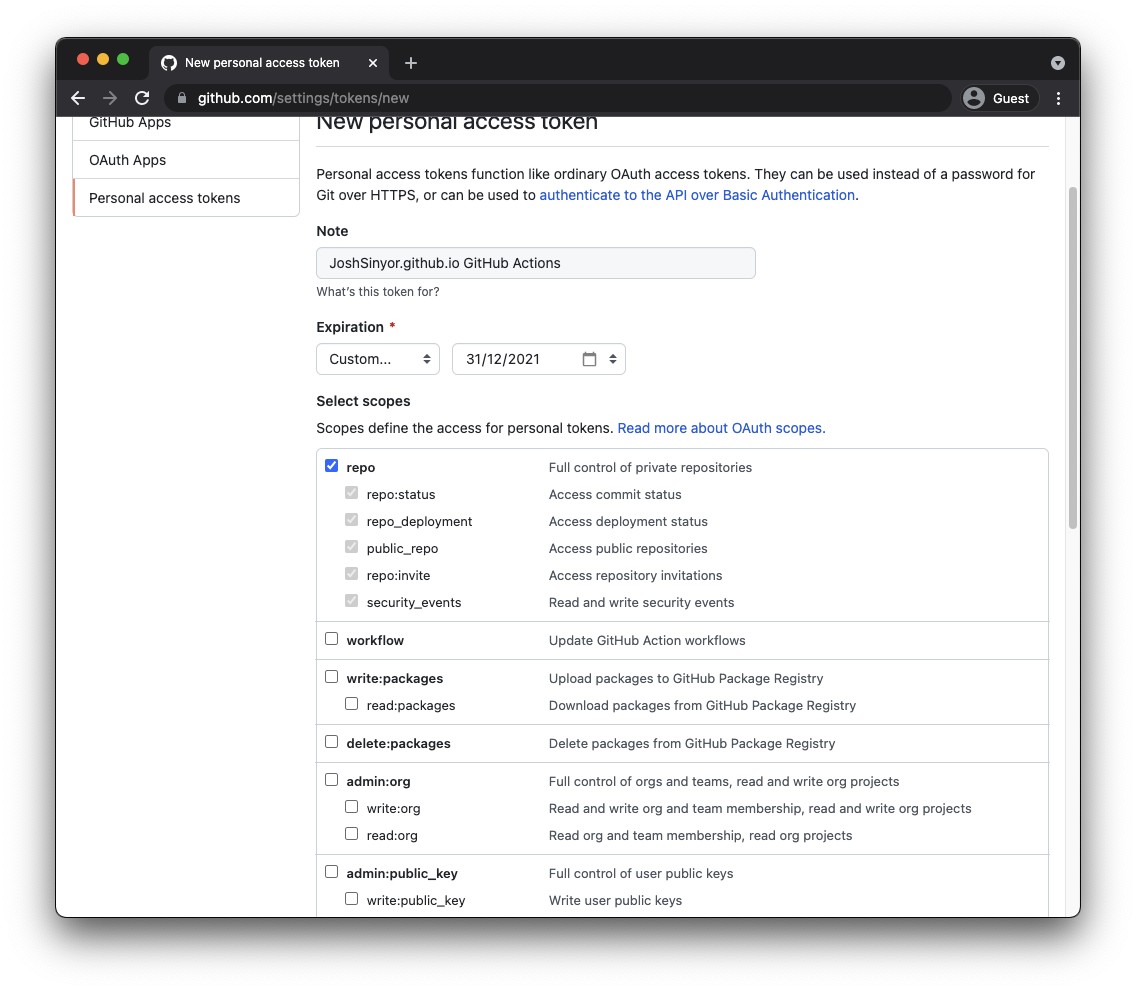
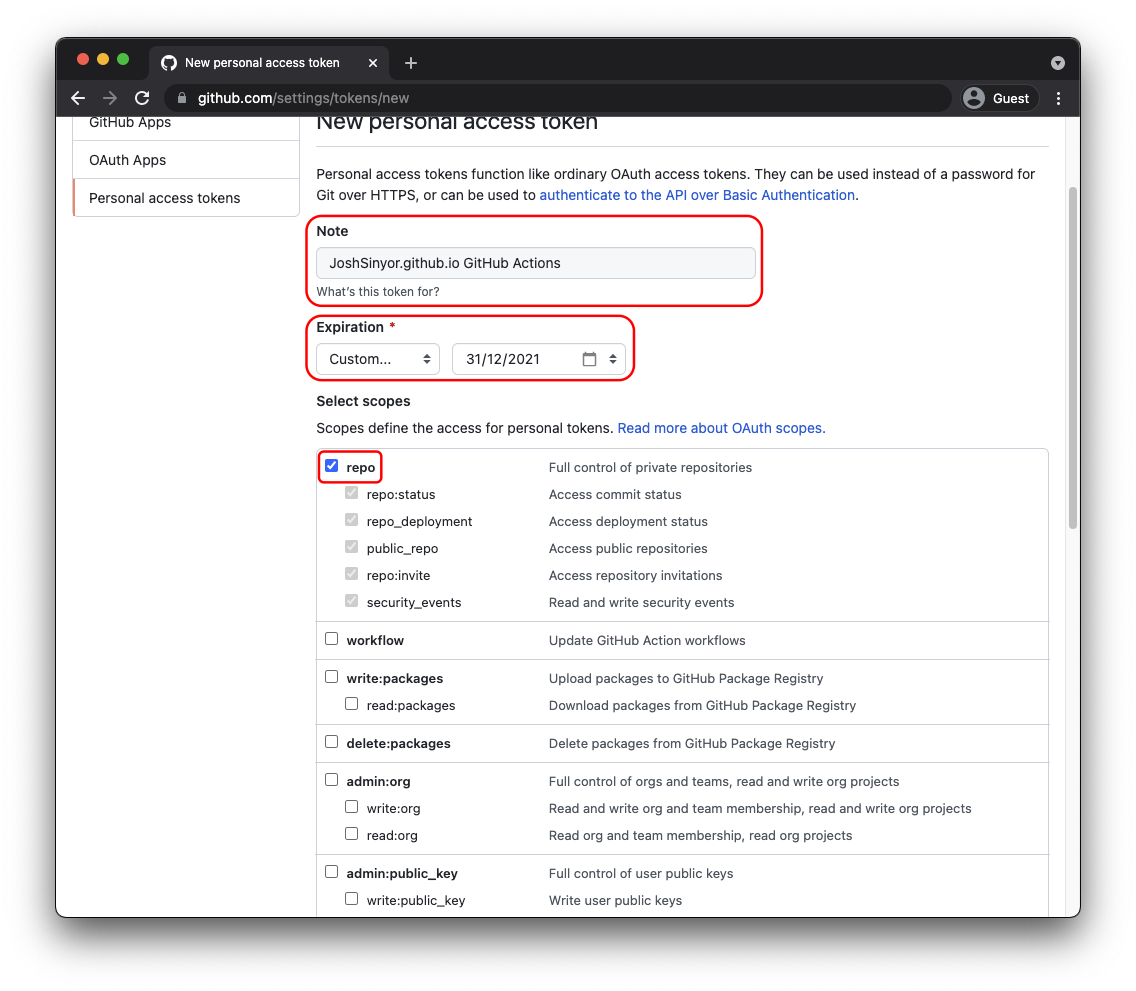
Update 2021-10-11-github-actions-and-github-pages.md and personal_access_token_01.png. Reflects progress on fifth post.

diff --git a/_posts/2021-10-11-github-actions-and-github-pages.md b/_posts/2021-10-11-github-actions-and-github-pages.md
@@ -77,9 +77,23 @@ Each run of my Action workflow requires setting up a container which I will use 
 
 ⚠ **This choice has security implications.** This Action will be running automatically and without direct oversight. It's important that the access granted is as limited in scope as possible; I don't want a bad actor exploiting it to gain access to my GitHub account. This is the number one reason I chose to write this aspect of my Action myself, rather than using any of the numerous off-the-shelf Action components available on the [Marketplace](https://github.com/marketplace?type=actions): I want complete oversight of the code I allow authenticated access to my repository.
 
-⚠ **Personal Access Tokens can only authenticate via HTTPS, not SSH.** My Action's Ruby instance is therefore configured to push via HTTPS, not SSH. However, this doesn't affect any other local instances of my repository - my local machines can continue to authenticate pushes and pulls to and from this repository using SSH. Deploy Keys can use SSH or OAuth tokens if HTTPS isn't appropriate.
+⚠ **Personal Access Tokens can only authenticate via HTTPS, not SSH.** My Action's Ruby instance is therefore configured to push via HTTPS, not SSH. This doesn't affect any other instances of my repository - my local machines can continue to authenticate pushes and pulls to and from this repository using SSH. Deploy Keys can use SSH or OAuth tokens if HTTPS isn't appropriate.
 
-For this situation, a limited-scope PAT was ideal. To create it, I:
+For this situation, a limited-scope PAT was ideal. To create a new PAT, navigate to the [Personal access tokens subsection](https://github.com/settings/tokens) of the Developer settings section of your profile's Settings tab. Then, select Generate new token.
+
+![Generating a New Personal Access Token](/images/2021-10-11/personal_access_token_01.png)
+
+Make sure to name the token something that accurately describes what you'll use it for, and to set an expiration date. You can easily update a token's hash later, so resist the urge to create a token with no expiry date - it's a security risk. Give the token `repo` scope but no other - it doesn't need any others, and if it's trying to use others, it shouldn't be allowed to do so.
+
+Next, click Generate token. You'll be presented with your new token's hash; this is the only time you'll be able to access it, so copy it to clipboard.
+
+![A New Personal Access Token](/images/2021-10-11/personal_access_token_02.png)
+
+⚠ **Never reveal the hash of any security token!** It will allow anyone with access to the hash access to whatever your token's scope is. This token was revoked immediately after I took these illustrative screenshots. **Never save or share a token's hash anywhere!**
+
+⚠ **Do not share PATs between repositories!** If a single PAT is somehow compromised, you can delete it and update the single dependent repository. Using a repository-specific PAT allows you to limit the PAT's scope to the absolute minimum required by that individual repository.
+
+![Adding a Secret](/images/2021-10-11/personal_access_token_03.png)
 
 ```
   env:
